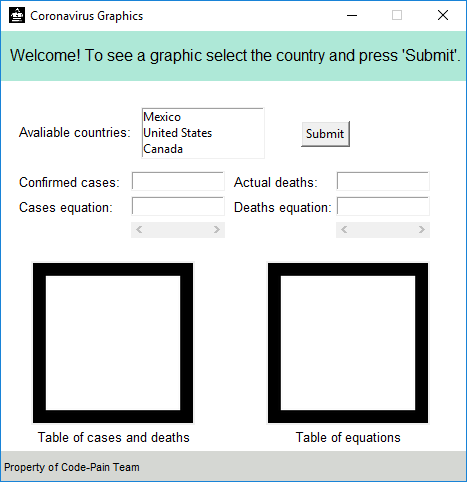
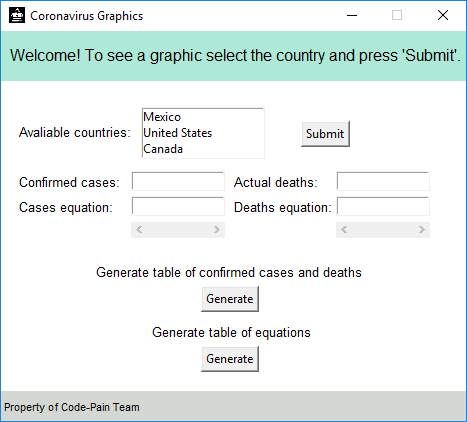
doc

diff --git a/3raEntrega/Prototipo 6/main.py b/3raEntrega/Prototipo 6/main.py
@@ -1,8 +1,87 @@
 """
-Instruction to inicialize the program
+Author Joshua Meza, Jonathan Gómez, and Irving Poot
+Date 20/05/2020
+Version 1.4.0
+Program who ask to the user a Country and returns the graphics of total cases and total deaths, the
+total numbers and the logarithmic equations that represents the increase of cases and deaths.
+    Special requirements:
+        - Install the neccesary libraries (http.client,matplotlib) by using 'pip install <library>'.
+        - Place the cmd on the folder before executing.
+"""
+from tkinter import *
+from PutValues import *
+from GenGraphic1 import *
+from GenGraphic2 import *
+
+def placeBoxes():
+    """
+    Get the request of the user, place the info on the boxes and save the necessary data for the grapphics
+    Args:
+        casesAmount (list): Total amount of confirmed cases
+        deathsAmount (list): Total amount of deaths
+        A (list): A value of the y=A*e^(Bx) equation
+        B (list): B value of the y=A*e^(Bx) equation
+        C (list): C value of the y=C*e^(Dx) equation
+        D (list): D value of the y=D*e^(Dx) equation
+        codeL (tkinter): Function that saves like string the user's selection
+    Returns:
+        Values of cases, deaths and pieces for the equation
+    """
+    casesAmount.clear()
+    deathsAmount.clear()
+    A.clear()
+    B.clear()
+    C.clear()
+    D.clear()
+    codeL=listCountries.get(listCountries.curselection())
+    values(casesBox,eqCasBox,deathBox,eqDetBox,codeL,casesAmount,deathsAmount,A,B,C,D)
+
+def genGraphCases():
+    """
+    Generate the graphic of confirmed cases vs deaths
+    Args:
+        casesAmount (list): Total amount of confirmed cases
+        deathsAmount (list): Total amount of deaths
+    Returns:
+        Window of the confirmed cases vs deaths
+    """
+    genGraphic1(casesAmount,deathsAmount)
+
+def genGraphEquation():
+    """
+    Generate the graphic of the equations
+    Args:
+        A (list): A value of the y=A*e^(Bx) equation
+        B (list): B value of the y=A*e^(Bx) equation
+        C (list): C value of the y=C*e^(Dx) equation
+        D (list): D value of the y=D*e^(Dx) equation
+    Returns:
+        Window of the equations
+    """
+    genGraphic2(A,B,C,D)
+
+#Memory for graphics
+"""
+Variables to pass by reference the data of the boxes and graphics
 Args:
-    casesAmount (int): Total amount of confirmed cases
-    deathsAmount (int): Total amount of deaths
+    casesAmount (list): Total amount of confirmed cases
+    deathsAmount (list): Total amount of deaths
+    A (list): A value of the y=A*e^(Bx) equation
+    B (list): B value of the y=A*e^(Bx) equation
+    C (list): C value of the y=C*e^(Dx) equation
+    D (list): D value of the y=D*e^(Dx) equation
+"""
+casesAmount=[0]
+deathsAmount=[0]
+A=[0]
+B=[0]
+C=[0]
+D=[0]
+
+#Visual Aspect
+"""
+Visual aspect of the program
+Args:
     root (tkinter): Visual root
     codeL (tkinter): Function that saves like string the user's selection
     imgIcon (tkinter): References the custom icon of the app
@@ -16,41 +95,7 @@ Args:
     eqDetBox (tkinter): Box of the deaths equation
     scrollbarCas (tkinter): Scrollbar of the box of confirmed cases
     scrollbarDet (tkinter): Scrollbar of the box of deaths
-    load (PIL): Load the image
-    render (PIL): Render the image
-    table1 (PIL): Table of cases and deaths
-    table2 (PIL): Table of equations
 """
-from tkinter import *
-from PutValues import *
-from GenGraphic1 import *
-from GenGraphic2 import *
-
-def placeBoxes():
-    casesAmount.clear()
-    deathsAmount.clear()
-    A.clear()
-    B.clear()
-    C.clear()
-    D.clear()
-    codeL=listCountries.get(listCountries.curselection())
-    values(casesBox,eqCasBox,deathBox,eqDetBox,codeL,casesAmount,deathsAmount,A,B,C,D)
-
-def genGraphCases():
-    genGraphic1(casesAmount,deathsAmount)
-
-def genGraphDeaths():
-    genGraphic2(A,B,C,D)
-
-#Memory for graphics
-casesAmount=[0]
-deathsAmount=[0]
-A=[0]
-B=[0]
-C=[0]
-D=[0]
-
-#Visual Aspect
 root=Tk()
 codeL=StringVar()
 
@@ -114,10 +159,12 @@ Label(mid,text="Generate table of confirmed cases and deaths",font=('bold',10),j
 Button(mid,text="Generate",justify="center",activebackground="blue",command=genGraphCases).place(x=200,y=205)
 
 Label(mid,text="Generate table of equations",font=('bold',10),justify="left",bg="white").place(x=148,y=240)
-Button(mid,text="Generate",justify="center",activebackground="blue",command=genGraphDeaths).place(x=200,y=265)
+Button(mid,text="Generate",justify="center",activebackground="blue",command=genGraphEquation).place(x=200,y=265)
 
 #Helps the program to close
 root.protocol("WM_DELETE_WINDOW",root.destroy)
 
 #Keeps the visual aspect open   
 root.mainloop()
+
+#DOCUMENTATION PYDOC [https://github.com/JoshuaMeza/CodePain_PE/blob/master/Recursos/Documentaci%C3%B3nHTML.zip?raw=true]

diff --git a/3raEntrega/Prototipo 6/GenGraphic1.py b/3raEntrega/Prototipo 6/GenGraphic1.py
@@ -1,3 +1,9 @@
+"""
+Author Joshua Meza, Jonathan Gómez, and Irving Poot
+Date 20/05/2020
+Version 1.0.0
+Program who generates the confirmed cases vs actual deaths graphic.
+"""
 from matplotlib import pyplot
 
 def genGraphic1(casesAmount,deathsAmount):

diff --git a/3raEntrega/Prototipo 6/genGraphic2.py b/3raEntrega/Prototipo 6/genGraphic2.py
@@ -1,3 +1,9 @@
+"""
+Author Joshua Meza, Jonathan Gómez, and Irving Poot
+Date 20/05/2020
+Version 1.0.0
+Program who generates the equations graphic.
+"""
 from matplotlib import pyplot
 from math import exp
 import numpy as np

diff --git a/3raEntrega/Prototipo 6/PutValues.py b/3raEntrega/Prototipo 6/PutValues.py
@@ -1,3 +1,9 @@
+"""
+Author Joshua Meza, Jonathan Gómez, and Irving Poot
+Date 20/05/2020
+Version 1.0.0
+Program who recieve data form the api and place it on the box.
+"""
 import http.client 
 import json 
 import math

diff --git a/3raEntrega/5-Mapeo de requerimientos.md b/3raEntrega/5-Mapeo de requerimientos.md
@@ -18,27 +18,29 @@
 
 ## Resumen de Avances
 
-Durante el desarrollo del primer prototipo se investigaron múltiples API's, a lo que se encontró la que más se adaptaba a las necesidades del sistema. Tras investigar sobre las bibliotecas *json* y *http.client* se construyó el código de tal manera que se recuperen los datos específicos necesarios para la construcción de las gráficas, guardando los datos en forma de enteros en dos listas separadas.
+Durante el desarrollo del **primer prototipo** se investigaron múltiples API's, a lo que se encontró la que más se adaptaba a las necesidades del sistema. Tras investigar sobre las bibliotecas *json* y *http.client* se construyó el código de tal manera que se recuperen los datos específicos necesarios para la construcción de las gráficas, guardando los datos en forma de enteros en dos listas separadas.
 
-Durante el desarrollo del segundo prototipo se investigaron algoritmos de regresiones exponenciales que sirvieran para generar las ecuaciones que modelan el comportamiento y predicción de los casos y muertes, usando logaritmos se buscaba obtener una ecuación del tipo *y=A*e^Bx, misma que es obtenida con la ayuda de la librería *Math* la cual fue usada para el empleo de la palabra reservada "log", los valores se almacenan en diferentes variables, las cuales permiten el fácil manejo de los datos de tipo float.
+Durante el desarrollo del **segundo prototipo** se investigaron algoritmos de regresiones exponenciales que sirvieran para generar las ecuaciones que modelan el comportamiento y predicción de los casos y muertes, usando logaritmos se buscaba obtener una ecuación del tipo *y=A*e^Bx, misma que es obtenida con la ayuda de la librería *Math* la cual fue usada para el empleo de la palabra reservada "log", los valores se almacenan en diferentes variables, las cuales permiten el fácil manejo de los datos de tipo float.
 
-Durante el desarrollo del tercer prototipo se investigó e implementó la librería "Matplotlib" que sirvió para generar la gráfica de pastel que se muestran al principio y el gráfico de líneas al final, que representan los casos y muertes, así como el aumento pronosticado de los mismos respectivamente.
+Durante el desarrollo del **tercer prototipo** se investigó e implementó la librería "Matplotlib" que sirvió para generar la gráfica de pastel que se muestran al principio y el gráfico de líneas al final, que representan los casos y muertes, así como el aumento pronosticado de los mismos respectivamente.
 
-Durante el desarrollo del cuarto prototipo se implementó el diseño visual así como la interfaz con la que el usuario interactuará al momento de ejecutar el programa, el cual se elaboró con la librería *Tkinter* por medio de cajas de casos. A continuación se construyó el código para usar los recursos dentro de una carpeta, "resources", en el mismo espacio de trabajo, dónde a su vez se modificó el código de las gráficas para que ahora estas, en vez de desplegarse como una ventana emergente, se guardaran en la carpeta anteriormente mencionada. Igualmente se borraron funciones obsoletas y se actualizaron otras.
+Durante el desarrollo del **cuarto prototipo** se implementó el diseño visual así como la interfaz con la que el usuario interactuará al momento de ejecutar el programa, el cual se elaboró con la librería *Tkinter* por medio de cajas de casos. A continuación se construyó el código para usar los recursos dentro de una carpeta, "resources", en el mismo espacio de trabajo, dónde a su vez se modificó el código de las gráficas para que ahora estas, en vez de desplegarse como una ventana emergente, se guardaran en la carpeta anteriormente mencionada. Igualmente se borraron funciones obsoletas y se actualizaron otras.
 
-En el prototipo 5 se añadió la función de poder mostrar las gráficas dentro de la aplicación y de poder actualizar la información indefinidamente.
+En el **quinto prototipo** se añadió la función de poder mostrar las gráficas dentro de la aplicación y se solucinó un error que impedía poder generar gráficas indefinidamente, ya que estas se superponían.
 
-En el producto final se creó y convirtió el archivo *main.py version 1.3.2* en *CoronaGraphics.exe*, se corrigieron errores del *main.py version 1.3.1* (prototipo 5), se facilitó la utilización de la aplicación y se le personalizó más.
+En el **sexto prototipo** se dividió en cuatro archivos el sistema, se redujo el número de bibliotecas necesarias en el programa, se cambió el sistema de generación de gráficas para que fueran ventanas emergentes independientes, se modificó el aspecto visual del Prototipo 5 y se solucionaron los dos errores de ejecución presentes en el prototipo anterior que impedían la correcta generación de gráficas y la finalización del proceso. 
+
+En el **producto final** se creó y convirtió el archivo *main.py version 1.4.0* en *CoronaGraphics.exe*, se facilitó la utilización de la aplicación y se le proporcionó un ícono personalizado al ejecutor.
 
 ## Mapeo
 
-En las funciones *askCountry*, *getCases*, y *getDeaths* se cumplen los requerimientos relacionados con el servicio web, ya que se encargan de recopilar el código de la API, y consultar el historial de casos confirmados y de defunciones.
+En el archivo *PutValues* se cumplen los requerimientos relacionados con el servicio web, ya que se encargan de recopilar el código de la API, y consultar el historial de casos confirmados y de defunciones.
 
-En las funciones *getAvalue*, *getBvalue*, *getCvalue* y *getDvalue* cumplen con el requerimiento de generar el algoritmo que represente el crecimiento de casos confirmados y de defunciones hasta la fecha.
+En el archivo *PutValues* se cumple con el requerimiento de generar el algoritmo que represente el crecimiento de casos confirmados y de defunciones hasta la fecha.
 
-En las funciones *genGraphic* y *genGraphic2* se cumplen los requerimientos relacionados con la creación de las gráficas de casos confirmados y de defunciones. A partir del 4to prototipo se cumple de manera más eficaz y funcional los requerimentos relacionados con el despliegue de gráficas al ser adaptadas a la nueva interfaz, ubicando sus resultados a manera de imagen .png en la carpeta "resources".
+En los archivos *GenGraphic1* y *GenGraphic2* se cumplen los requerimientos relacionados con la creación de las gráficas de casos confirmados y de defunciones.
 
-En la sentencia de inicio del programa se encuentra redactado el aspecto visual por razones de ejecución. En esta zona se cumplen con los requerimientos de desplegar los resultados al usuario y de permitirle consultar el número de veces que desee la información disponible.
+En el archivo *Main* se encuentra redactado el aspecto visual. En esta zona se cumplen con los requerimientos de desplegar los resultados al usuario y de permitirle consultar el número de veces que desee la información disponible.
 
 
 ## Resultado
@@ -46,3 +48,7 @@ En la sentencia de inicio del programa se encuentra redactado el aspecto visual 
 [Interfaz de inicio](https://github.com/JoshuaMeza/CodePain_PE/blob/master/Recursos/Interfaz.png)
 
 [Interfaz de salida](https://github.com/JoshuaMeza/CodePain_PE/blob/master/Recursos/InterfazResultados.png)
+
+[Gráfica 1](https://github.com/JoshuaMeza/CodePain_PE/blob/master/Recursos/Grafica1.png)
+
+[Gráfica 2](https://github.com/JoshuaMeza/CodePain_PE/blob/master/Recursos/Grafica2.png)

diff --git a/3raEntrega/3-Requerimientos.md b/3raEntrega/3-Requerimientos.md
@@ -46,9 +46,7 @@ El algoritmo de regresión exponencial utiliza la biblioteca *Math* para el uso 
 
 Para las tablas, el sistema utiliza la librería *Numpy* y la mega-libreria *Matpotlib* que puede producir todas las gráficas que necesitaremos de una manera sencilla y agradable para la vista del usuario. La cual fue investigada en el mismo foro de la librería: "https://matplotlib.org/".
 
-Para colocar las imágenes generadas en la carpeta "resources" el sistema utiliza la librería *shutil*.
-
-Para el aspecto visual de la aplicación el sistema utiliza las librerías *Tkinter* y *Pillow*, las cuales sirven para dar estructura y colocar imágenes respectivamente.
+Para el aspecto visual de la aplicación el sistema utiliza la librería *Tkinter*, el cual permite colocar las secciones, colores, botones y cajas presentes en la interfaz.
 
 Para la documentación, se utiliza la biblioteca *pydoc*.
 
@@ -58,8 +56,8 @@ Para la documentación, se utiliza la biblioteca *pydoc*.
 
 2. Si se desea ejecutar el archivo *main.py* en vez del *CoronaGraphics.exe*, es necesario realizar las siguientes acciones:
 
-- Tener instalado en su computador *Python* y todas las bibliotecas utilizadas en el desarrollo del producto final (*Extras fuera de python: htttp.client, Matpotlib y Pillow*). 
+- Tener instalado en su computador *Python* y todas las bibliotecas utilizadas en el desarrollo del producto final (*Extras fuera de python: htttp.client y Matpotlib*). 
     - Para instalar las bibliotecas extras, realizar: *pip install <...>*
 - Colocar el cmd (línea de comandos) en la carpeta dónde se encuentra el archivo.
 
-En caso de no realizar las medidas anteriormente explicadas, el archivo no se va a ejecutar.
+En caso de no realizar las medidas anteriormente explicadas, el archivo no se ejecutará correctamente.

diff --git a/3raEntrega/2-Proceso de desarrollo.md b/3raEntrega/2-Proceso de desarrollo.md
@@ -90,9 +90,15 @@ básicamente lo que hace es obtener los datos de la API y quedarnos solo con los
 | Mejora en la redacción del repositorio | 22/04/20 | Todos | Repositorio |
 | Desarrollo del archivo "*Main v1.3.0*" | 10/05/20 | Todos | Prototipo 4 |
 | Desarrollo del archivo "*Main v1.3.1*" | 11/05/20 | Todos | Prototipo 5 |
-| Despliegue del producto final | 13/05/20 | Todos | Producto final |
 | Mejora en la redacción del repositorio | 13/05/20 | Todos | Repositorio |
 | Actualización de la documentación | 13/05/20 | Todos | Documentación |
+| Desarrollo del archivo "*Main v1.4.0*" | 20/05/20 | Todos | Prototipo 6 |
+| Desarrollo del archivo "*GenGraphic1 v1.0.0*" | 20/05/20 | Todos | Prototipo 6 |
+| Desarrollo del archivo "*GenGraphic2 v1.0.0*" | 20/05/20 | Todos | Prototipo 6 |
+| Desarrollo del archivo "*PutValues v1.0.0*" | 20/05/20 | Todos | Prototipo 6 |
+| Mejora en la redacción del repositorio | 20/05/20 | Todos | Repositorio |
+| Actualización de la documentación | 20/05/20 | Todos | Documentación |
+| Despliegue del producto final | 20/05/20 | Todos | Producto final |
 
 ## Resumen de artefactos obtenidos por persona
 
